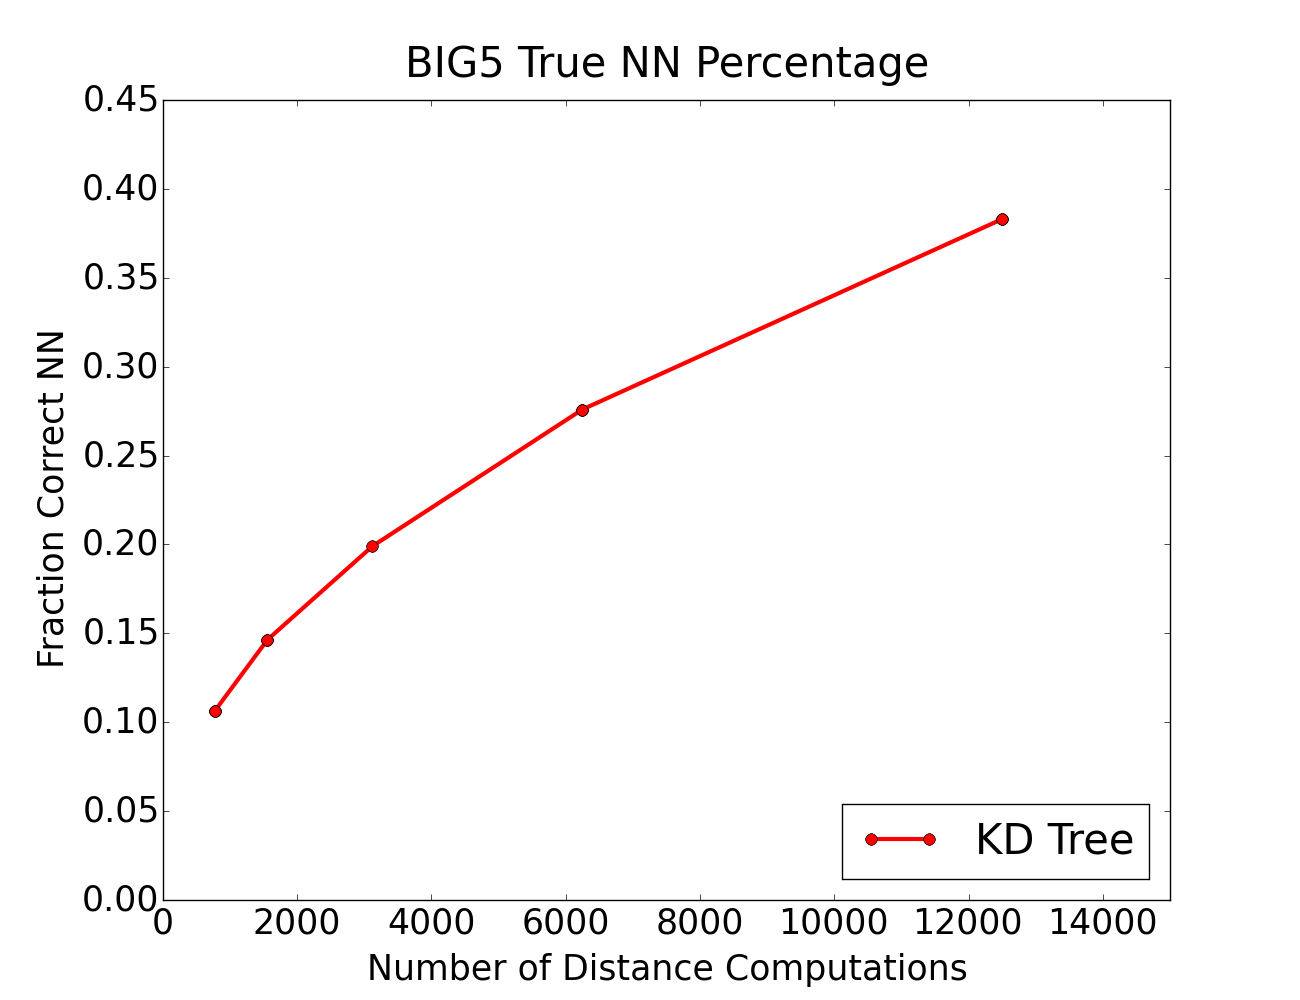
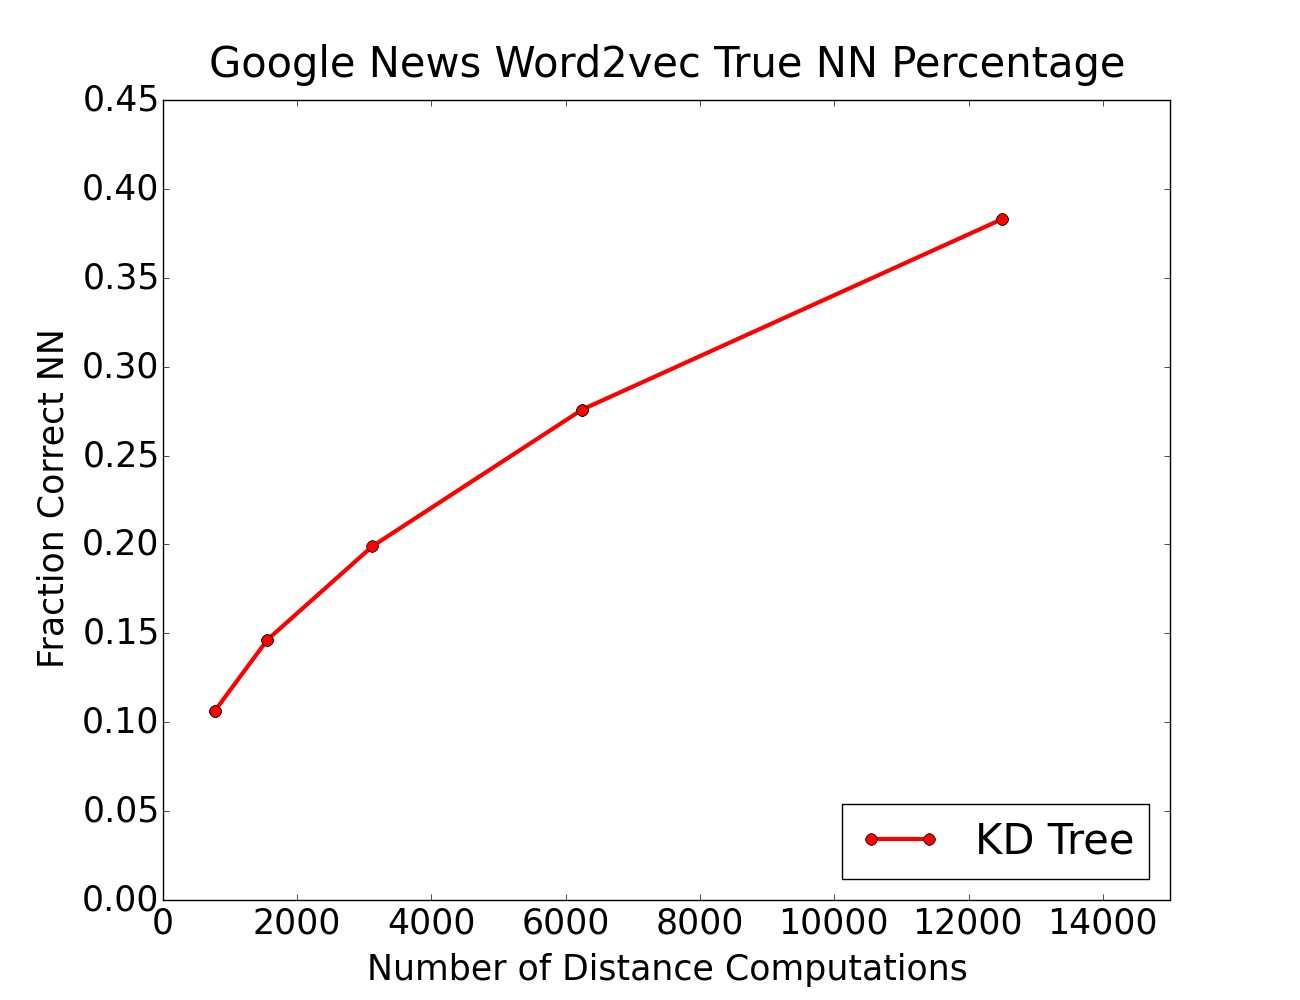
updated word2vec graphs

Changed region(s): [[0.1538, 0.031, 0.8615, 0.093]]

diff --git a/data/word2vec/pyplot.py b/data/word2vec/pyplot.py
@@ -188,13 +188,13 @@ def kd_pca_ran_rp():
 def main():
 	font = {'size' : 25}
 	plt.rc('font', **font)
-	plt.title('BIG5 True NN Percentage', y=1.02)
+	plt.title('Google News Word2vec True NN Percentage', y=1.02)
 	plt.xlabel('Number of Distance Computations', labelpad = 10)
 	plt.ylabel('Fraction Correct NN', labelpad = 10)
 
 	global data_set
 	data_set = 'w2v'
-	ran8_kd()
+	kd()
 
 main()
 
